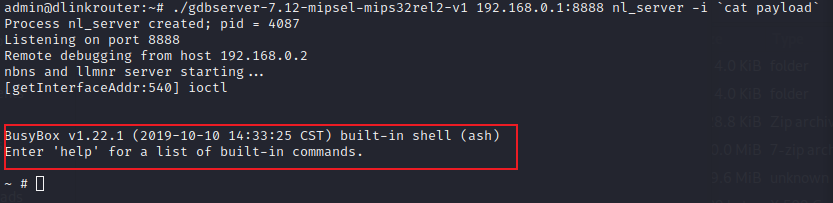
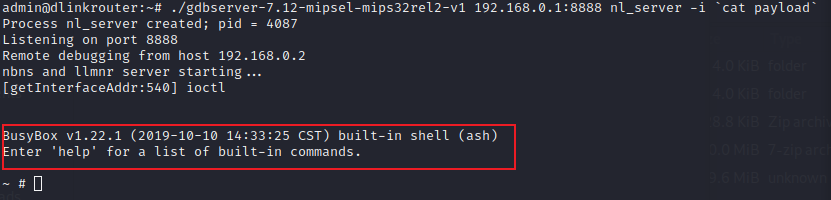
D-Link 2640 Stack Overflow

Changed region(s): [[0.0, 0.0, 0.9627, 0.48], [0.0, 0.6, 0.6318, 0.96]]

diff --git a/2021/CVE-2021-34202/README.md b/2021/CVE-2021-34202/README.md
@@ -131,7 +131,7 @@ python -c 'print "a" * 52 + "\x10\x6c\xff\x7f" + "b" * 0x50 + "\x66\x06\x06\x24"
 
 Our payload works correctly!
 
-![exp3](../../../new/image/exp3.png)
+![exp3](images/exp3.png)
 
 This binary can be run by ordinary users, so local code execution can elevate ordinary permissions to root permissions.
 
